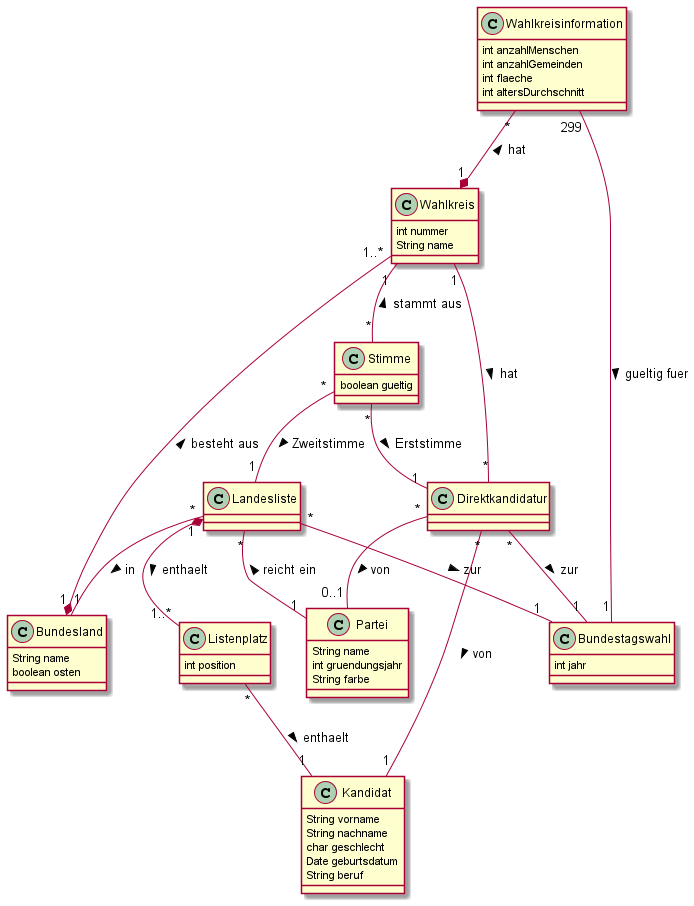
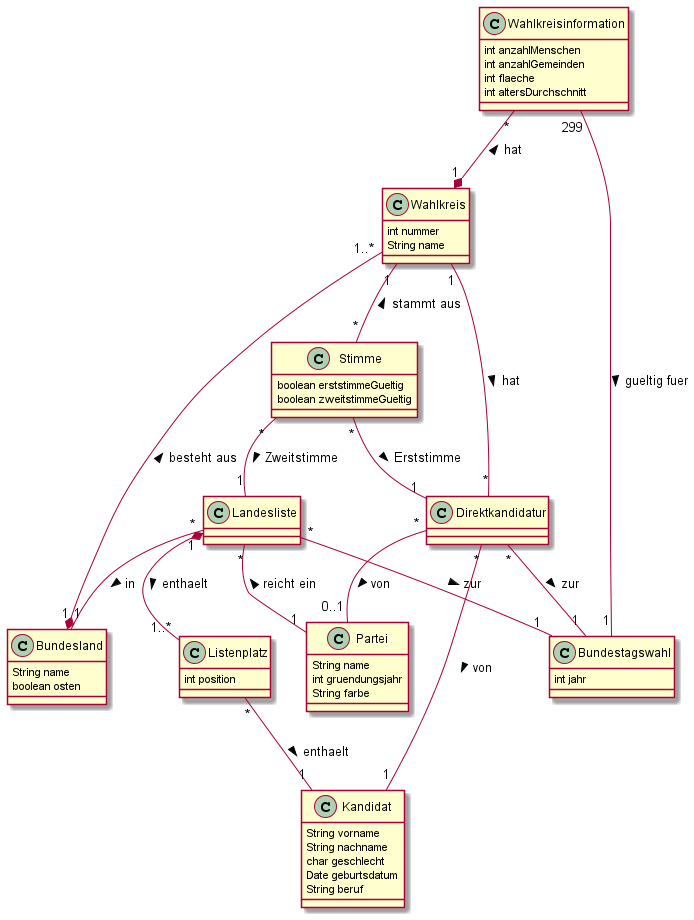
add separate validity attributes for votes

diff --git a/Blatt1/Aufgabe1.md b/Blatt1/Aufgabe1.md
@@ -4,7 +4,7 @@ Informieren Sie sich über das Wahlsystem der deutschen Bundestagswahl. Analysie
 ## Wie wird gewählt?
 - jeder/jede Wahlberechtigte mit Stimmabgabe in genau einem **Wahlkreis**
 - **Stimmzettel** bestehend aus **Erst**- und **Zweitstimme**
-- Stimmen können potentiell ungültig sein
+- Erst- und/**oder** Zweitstimme können potentiell ungültig sein
 
 ## Wer darf wählen?
 - wahlberichtigte deutsche Staatsbürger/innen
